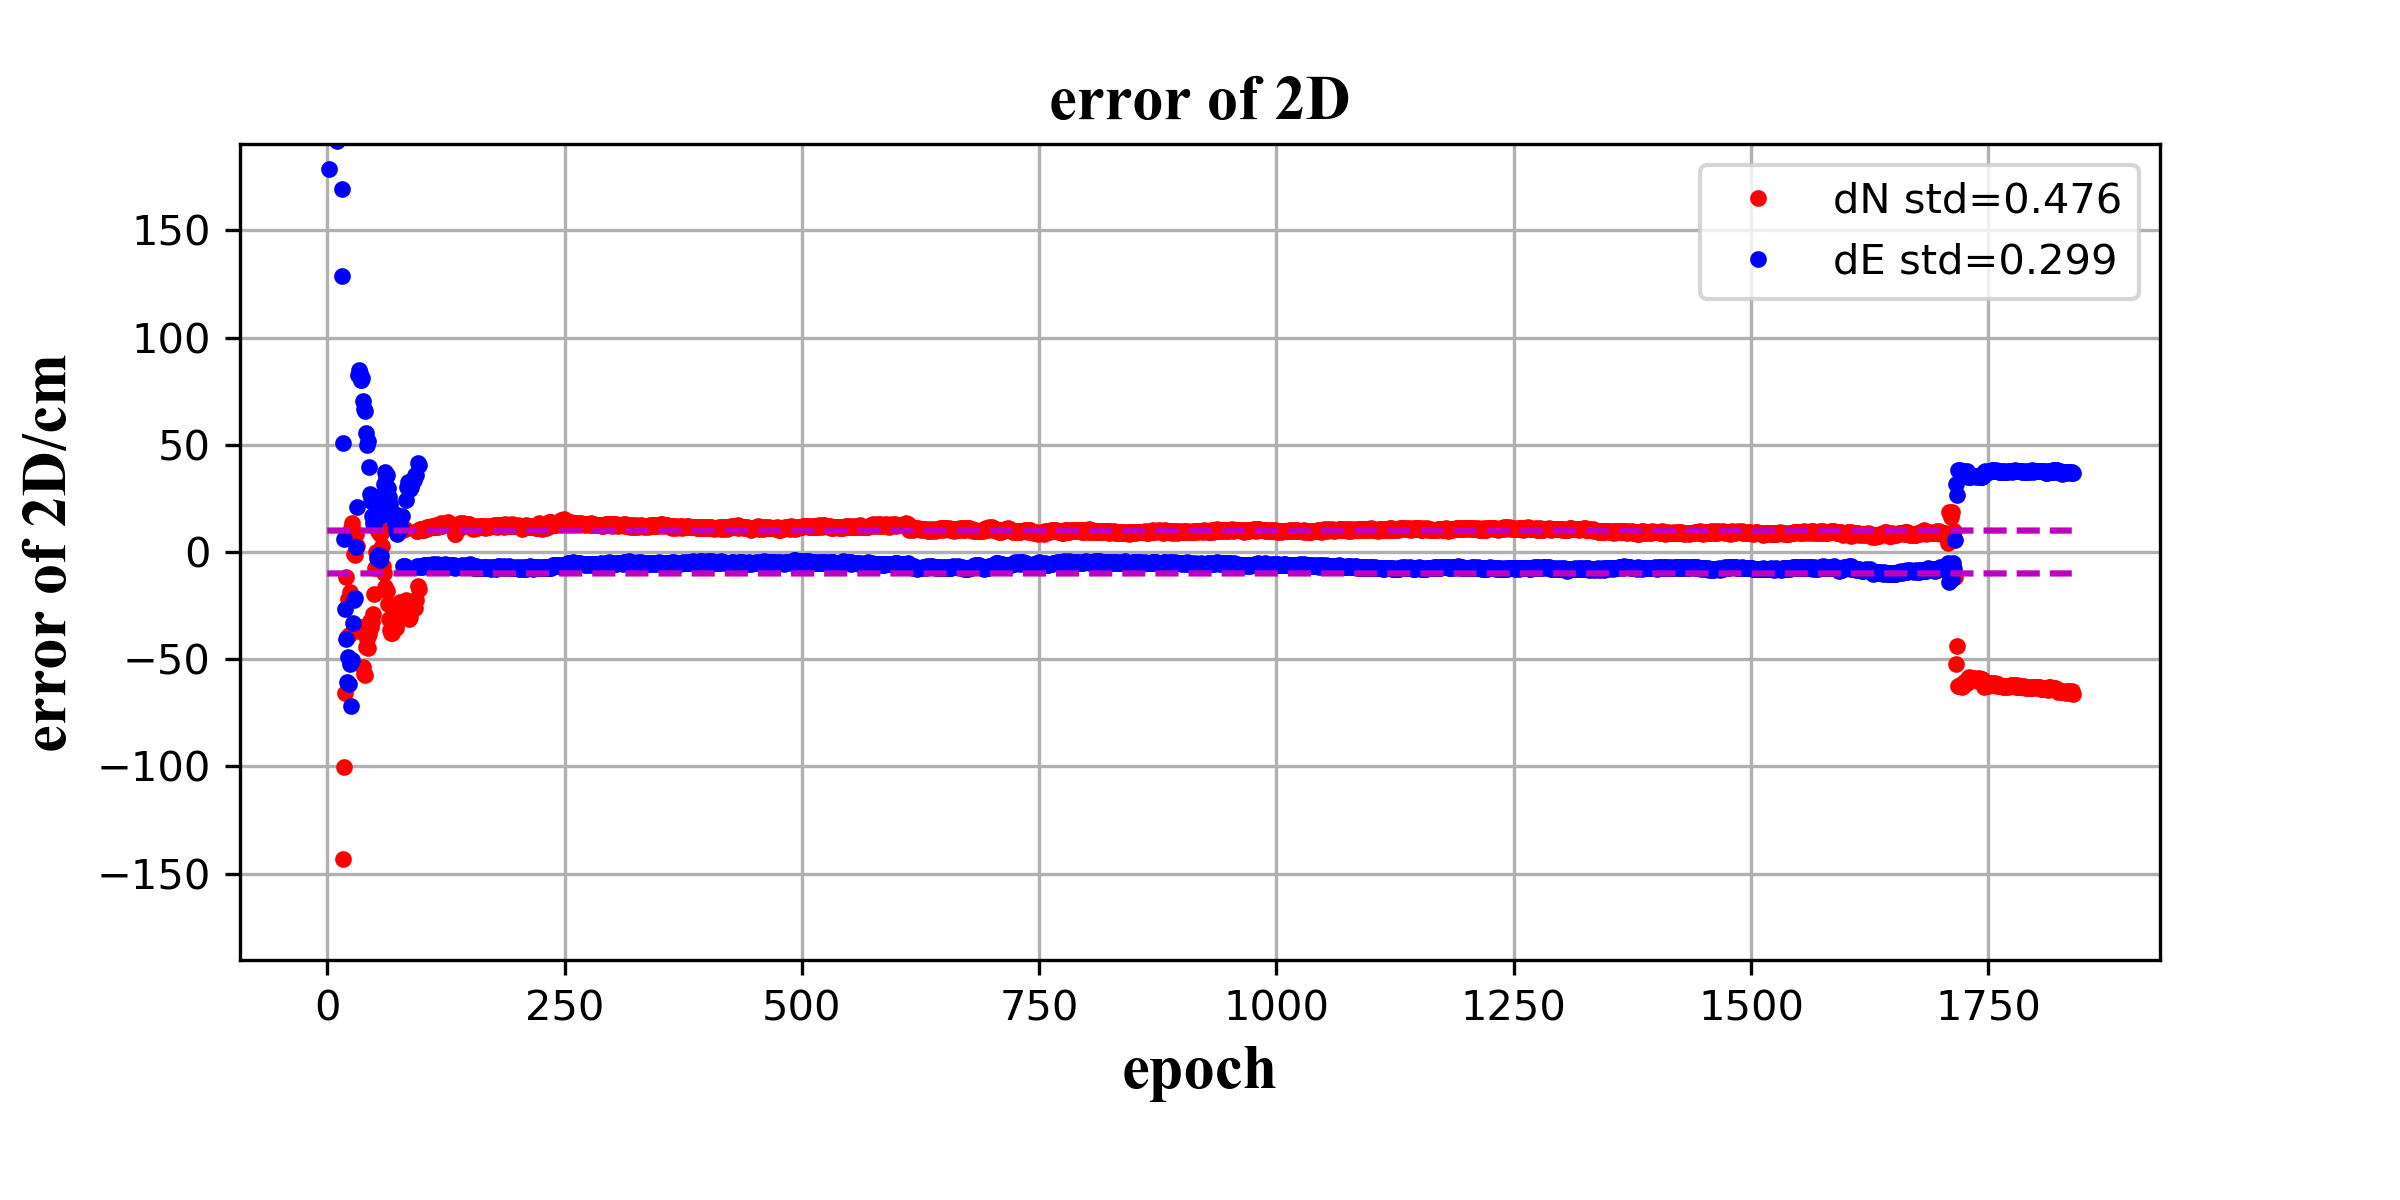
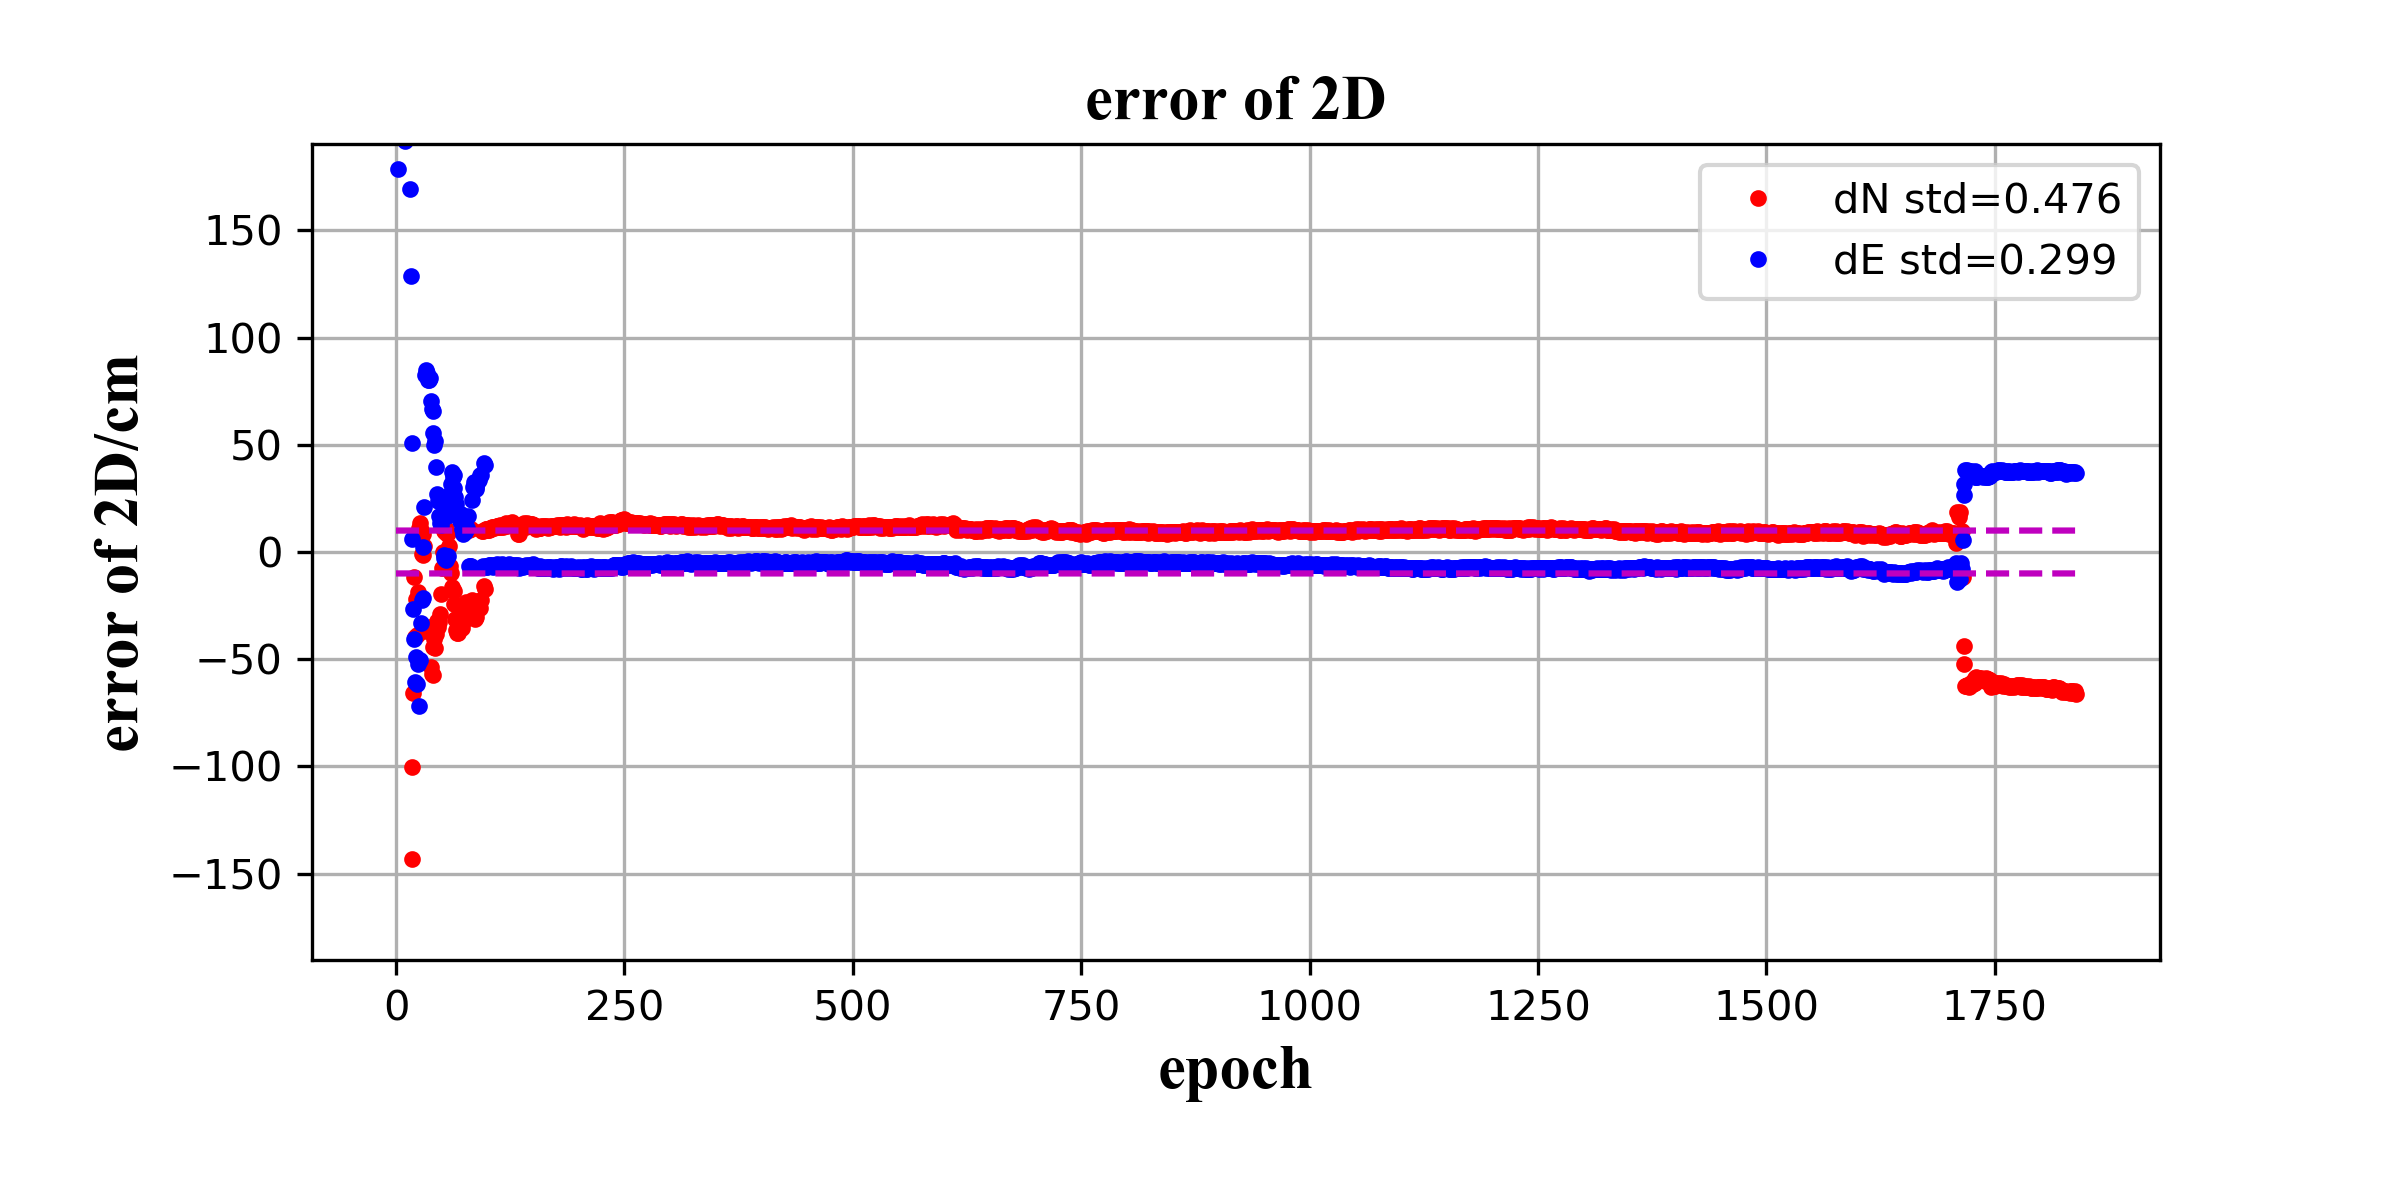
rtklib pos文件画图软件V1.0

diff --git a/pos.py b/pos.py
@@ -62,7 +62,7 @@ def plot_2D(path, i, name):
     fig = plt.figure(i)
 
     fig.set_size_inches(8, 4)
-    fig.subplots_adjust(left=0.1, bottom=0.2)  # 一些设置
+    fig.subplots_adjust(left=0.13, bottom=0.2)  # 一些设置
 
     plt.plot(x, e1 * 100, "r.", label="dN"+" std="+str(round(std_e,3)))
     plt.plot(x, n1 * 100, "b.", label="dE"+" std="+str(round(std_n,3)))
@@ -126,7 +126,7 @@ def plot_H(path, i, name):
     fig1 = plt1.figure(i+1)
 
     fig1.set_size_inches(8, 4)
-    fig1.subplots_adjust(left=0.1, bottom=0.2)  # 一些设置
+    fig1.subplots_adjust(left=0.13, bottom=0.2)  # 一些设置
 
     plt1.plot(x, u1 * 100, "g.", label="dU"+" std="+str(round(std_u,3)))  # alpha=0.2 透明度
 
